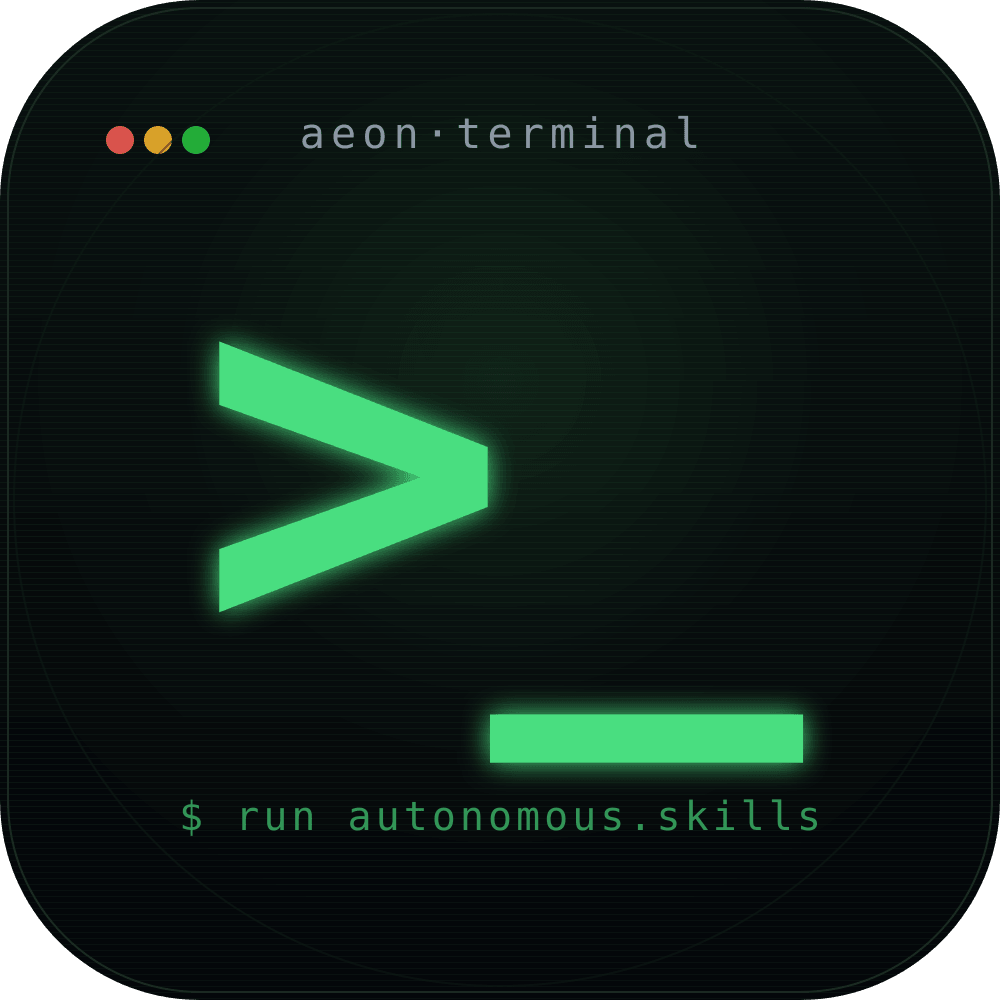
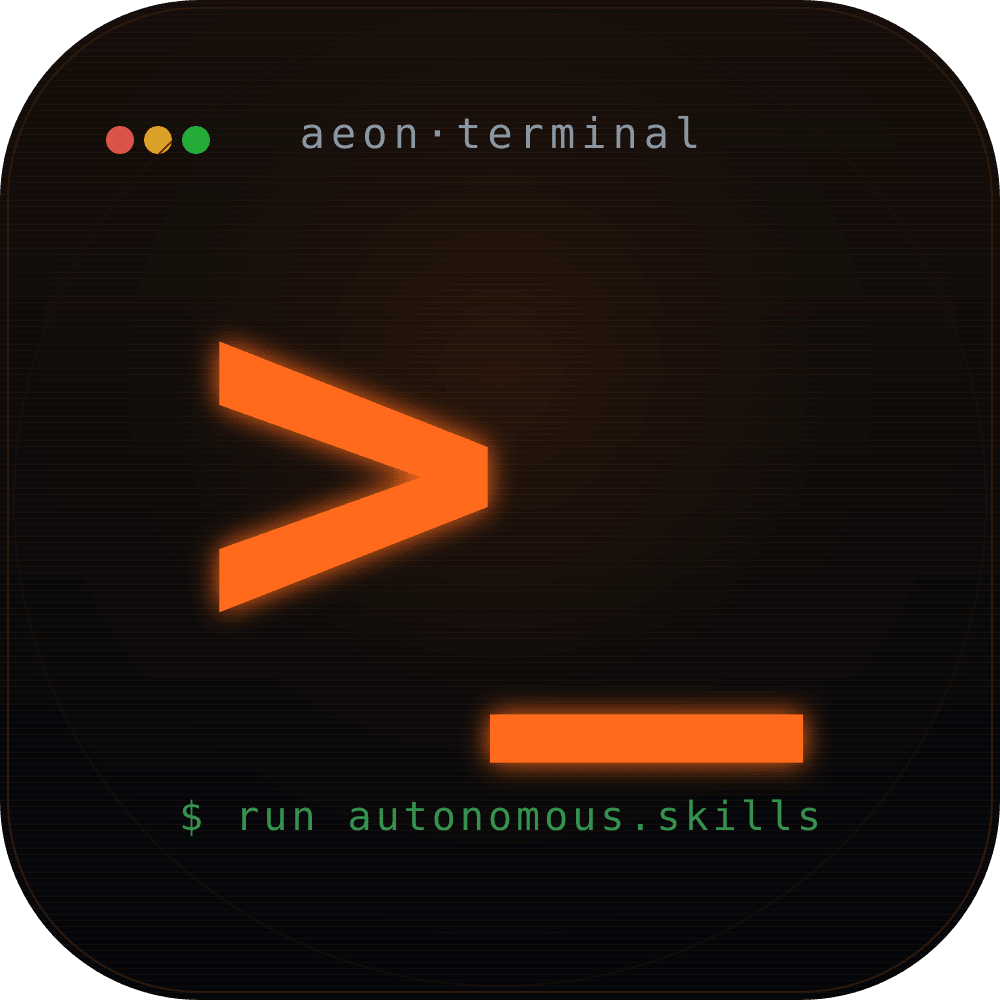
Adopt aeon bicolor palette (orange + green)
Borrow Evangelion-inspired colors from aaronjmars/aeon dashboard:
- Primary accent: #FF6B1A (orange) — was #4ade80 (green)
- Secondary accent: #43C165 (green) — newly added as --accent-2
- Amber: #FFB347 (warmer to match palette)

Applies across:
- globals.css: --accent, --accent-2, --amber, glow utilities, selection, CRT glow, term-chrome shadow
- icon.svg, apple-icon.svg: prompt strokes
- opengraph-image: "terminal" highlight, status dot, footer bicolor
- x-avatar.{svg,png}: orange >_ glyph, green $ run subtitle
- README, AGENTS.md: design notes updated

Changed region(s): [[0.186, 0.186, 0.651, 0.62], [0.465, 0.682, 0.837, 0.806]]

diff --git a/src/app/opengraph-image.tsx b/src/app/opengraph-image.tsx
@@ -19,7 +19,7 @@ export default async function OG() {
           fontFamily: "ui-monospace, SFMono-Regular, Menlo, monospace",
           padding: 64,
           backgroundImage:
-            "radial-gradient(ellipse 80% 60% at 50% -10%, rgba(74,222,128,0.18), transparent 60%)",
+            "radial-gradient(ellipse 80% 60% at 50% -10%, rgba(255,107,26,0.2), transparent 60%)",
         }}
       >
         <div
@@ -37,8 +37,8 @@ export default async function OG() {
               width: 12,
               height: 12,
               borderRadius: 999,
-              background: "#4ade80",
-              boxShadow: "0 0 16px #4ade80",
+              background: "#FF6B1A",
+              boxShadow: "0 0 16px #FF6B1A",
             }}
           />
           AUTONOMOUS AGENT TERMINAL · V0.1.0
@@ -58,7 +58,7 @@ export default async function OG() {
           <span style={{ color: "#7d8590" }}>$</span>
           <span style={{ color: "#e6edf3" }}>aeon</span>
           <span style={{ color: "#7d8590" }}>·</span>
-          <span style={{ color: "#4ade80" }}>terminal</span>
+          <span style={{ color: "#FF6B1A" }}>terminal</span>
         </div>
 
         <div
@@ -80,12 +80,12 @@ export default async function OG() {
             display: "flex",
             gap: 28,
             fontSize: 22,
-            color: "#4ade80",
+            color: "#FF6B1A",
           }}
         >
           <span>{">"} 34+ skills</span>
           <span style={{ color: "#7d8590" }}>·</span>
-          <span>cron + reactive</span>
+          <span style={{ color: "#43C165" }}>cron + reactive</span>
           <span style={{ color: "#7d8590" }}>·</span>
           <span>self-healing</span>
         </div>

diff --git a/src/app/globals.css b/src/app/globals.css
@@ -9,9 +9,10 @@
   --foreground: #e6edf3;
   --muted: #7d8590;
   --muted-2: #4b5563;
-  --accent: #4ade80;
-  --accent-dim: #166534;
-  --amber: #fbbf24;
+  --accent: #FF6B1A;
+  --accent-dim: #7c3a0e;
+  --accent-2: #43C165;
+  --amber: #FFB347;
   --pink: #f472b6;
   --cyan: #67e8f9;
   --danger: #ef4444;
@@ -28,6 +29,7 @@
   --color-muted-2: var(--muted-2);
   --color-accent: var(--accent);
   --color-accent-dim: var(--accent-dim);
+  --color-accent-2: var(--accent-2);
   --color-amber: var(--amber);
   --color-pink: var(--pink);
   --color-cyan: var(--cyan);
@@ -47,7 +49,7 @@ body {
 }
 
 ::selection {
-  background: rgba(74, 222, 128, 0.25);
+  background: rgba(255, 107, 26, 0.3);
   color: var(--foreground);
 }
 
@@ -56,7 +58,7 @@ body {
   background-image:
     radial-gradient(
       ellipse 80% 60% at 50% -10%,
-      rgba(74, 222, 128, 0.06),
+      rgba(255, 107, 26, 0.07),
       transparent 60%
     ),
     linear-gradient(
@@ -102,7 +104,11 @@ body::before {
 
 /* Glow utility */
 .glow-accent {
-  text-shadow: 0 0 12px rgba(74, 222, 128, 0.35);
+  text-shadow: 0 0 12px rgba(255, 107, 26, 0.4);
+}
+
+.glow-accent-2 {
+  text-shadow: 0 0 12px rgba(67, 193, 101, 0.35);
 }
 
 .glow-amber {
@@ -123,7 +129,7 @@ body::before {
   box-shadow:
     0 0 0 1px rgba(0, 0, 0, 0.4) inset,
     0 30px 60px -30px rgba(0, 0, 0, 0.6),
-    0 0 80px -40px rgba(74, 222, 128, 0.18);
+    0 0 80px -40px rgba(255, 107, 26, 0.2);
 }
 
 /* Subtle dotted bg pattern */

diff --git a/README.md b/README.md
@@ -9,7 +9,7 @@
   <a href="https://nextjs.org"><img src="https://img.shields.io/badge/next.js-16-black?style=flat-square&logo=next.js" alt="Next.js 16"></a>
   <a href="https://react.dev"><img src="https://img.shields.io/badge/react-19-149eca?style=flat-square&logo=react" alt="React 19"></a>
   <a href="https://tailwindcss.com"><img src="https://img.shields.io/badge/tailwind-4-38bdf8?style=flat-square&logo=tailwindcss" alt="Tailwind v4"></a>
-  <img src="https://img.shields.io/badge/license-MIT-4ade80?style=flat-square" alt="MIT">
+  <img src="https://img.shields.io/badge/license-MIT-FF6B1A?style=flat-square" alt="MIT">
 </p>
 
 ---
@@ -109,8 +109,8 @@ The skill will appear on `/skills`, get a card on the home page if you add it to
 ## Design notes
 
 - **Mono everywhere.** The whole site is set in JetBrains Mono. The only deviation is bullets and headings.
-- **Two real colors.** Foreground `#e6edf3`, accent `#4ade80`. Everything else is a muted gray.
-- **Subtle CRT.** A scanline overlay and radial green glow at the top. Designed to feel like a TUI, not look like one.
+- **Aeon bicolor.** Primary accent `#FF6B1A` (orange), secondary `#43C165` (green) — borrowed from the Evangelion-inspired palette in aaronjmars/aeon. Foreground `#e6edf3` on near-black. Everything else is muted gray.
+- **Subtle CRT.** A scanline overlay and radial orange glow at the top. Designed to feel like a TUI, not look like one.
 - **Reduced-motion aware.** All typing/blink animations respect `prefers-reduced-motion`.
 
 ## License

diff --git a/AGENTS.md b/AGENTS.md
@@ -20,8 +20,9 @@ Code wiring. Treat it as a focused marketing/demo site.
 ## Style
 
 - One font: JetBrains Mono.
-- Two real colors: foreground `#e6edf3`, accent `#4ade80`. Everything else is
-  a muted gray. Tokens live in `src/app/globals.css`.
+- Bicolor accent system (inspired by aeon): primary `#FF6B1A` (orange),
+  secondary `#43C165` (green). Foreground `#e6edf3`, everything else muted gray.
+  Tokens live in `src/app/globals.css`.
 - Respect `prefers-reduced-motion`. Anything that animates must have a still
   fallback.
 
